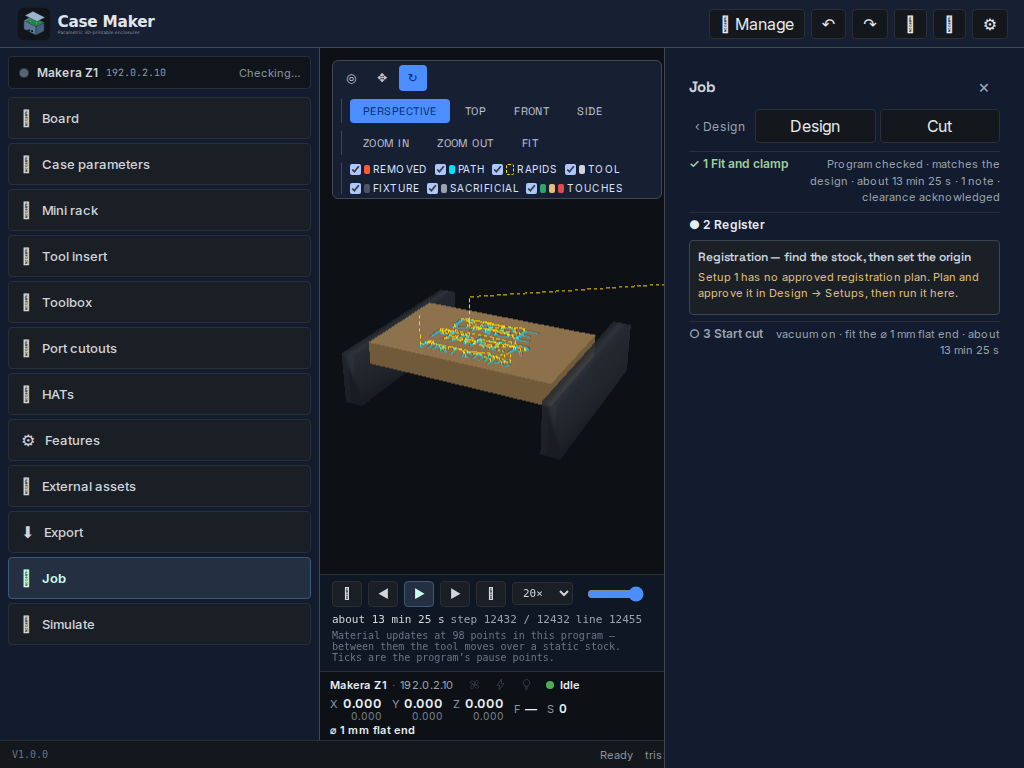
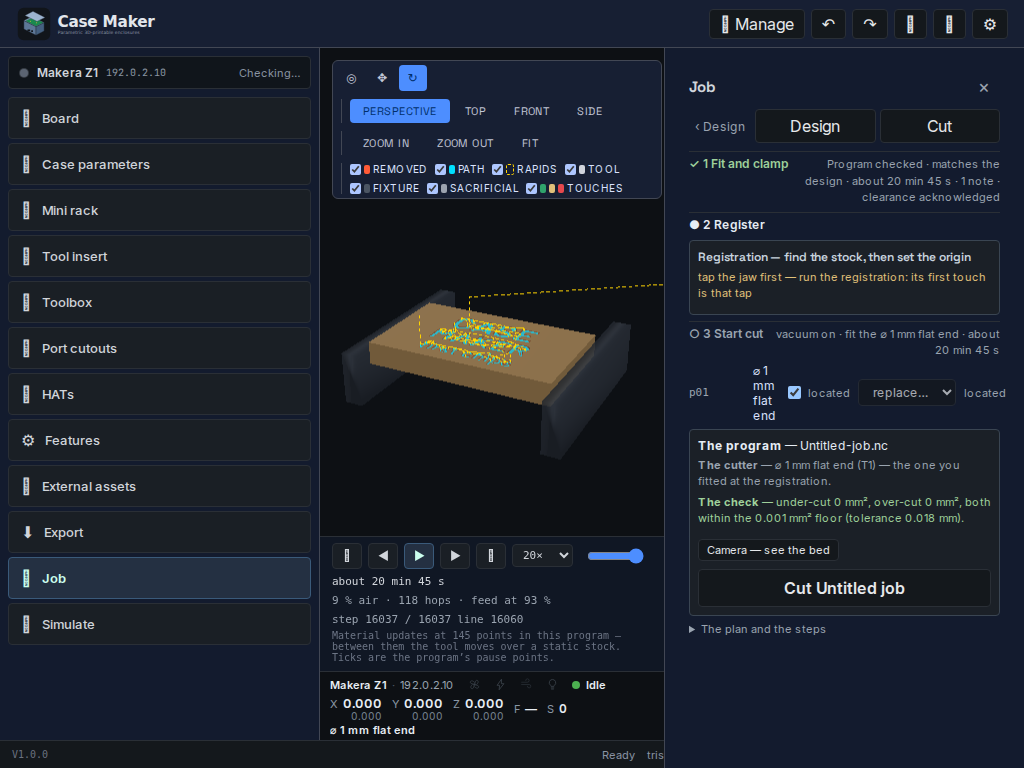
test(e2e): the ONE press is the first Load — tick the checklist first (#1127)
The one-screen e2e asserted that step 1's statement alone arms the Cut… press.
#1127 makes the press wait for every bit on the cut step's checklist, so the spec
opens step 3, ticks each row, and only then expects the press armed; the later
"open step 3" now guards on its state instead of toggling it shut.

`npx playwright test tests/e2e/cutConfirm.spec.ts` — 4 passed.

diff --git a/casemaker-app/tests/e2e/cutConfirm.spec.ts b/casemaker-app/tests/e2e/cutConfirm.spec.ts
@@ -87,6 +87,14 @@ test('#656 — the one screen names the frozen program and cutter, and ONE state
   fs.mkdirSync(statementDir, { recursive: true });
   await page.screenshot({ path: path.join(statementDir, 'one-statement.png') });
   await ack.check();
+  // #1127 — THE ONE PRESS IS ALSO THE FIRST LOAD: the statement alone does not arm it, because a
+  // program is not uploaded until every bit on the cut step's checklist is located (or replaced).
+  // The rows live in step 3 beside the press, so the step is opened here and left open below.
+  await page.getByTestId('engrave-cut-step-3-summary').click();
+  const cutterRows = page.getByTestId('engrave-cutter-row');
+  const cutterCount = await cutterRows.count();
+  expect(cutterCount, 'the checklist has a row per distinct cutter').toBeGreaterThan(0);
+  for (let i = 0; i < cutterCount; i++) await cutterRows.nth(i).getByRole('checkbox').check();
   await expect(go).toBeEnabled();
   await expect(details).not.toHaveAttribute('open');
   // #796 — THE THREE-STEP CUT, in the state the operator sees after a real Generate: step 1's
@@ -106,7 +114,10 @@ test('#656 — the one screen names the frozen program and cutter, and ONE state
   await expect(details).toHaveAttribute('open');
   await details.locator('summary').first().click();
   await expect(details).not.toHaveAttribute('open');
-  await page.getByTestId('engrave-cut-step-3-summary').click();
+  const step3 = page.getByTestId('engrave-cut-step-3');
+  if (!(await step3.evaluate((el) => (el as HTMLDetailsElement).open))) {
+    await page.getByTestId('engrave-cut-step-3-summary').click();
+  }
   await expect(page.getByTestId('engrave-cut-confirm')).toBeVisible({ timeout: 30_000 });
 
   const frozen = await page.evaluate(() => window.__caseMaker!.getFrozenProgram());
